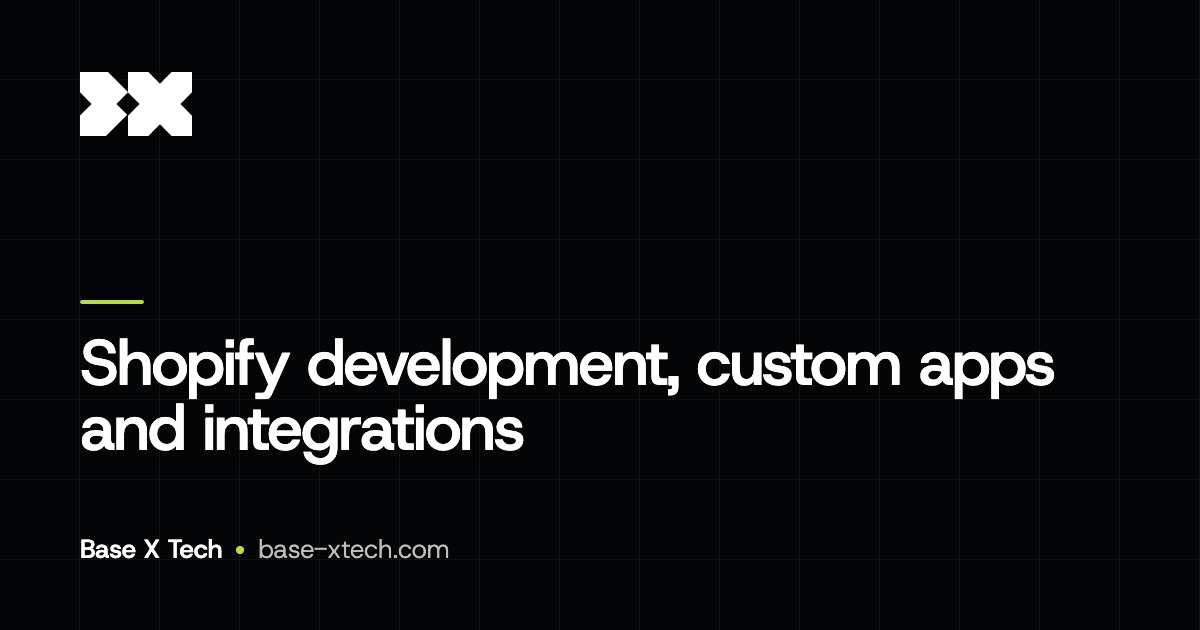
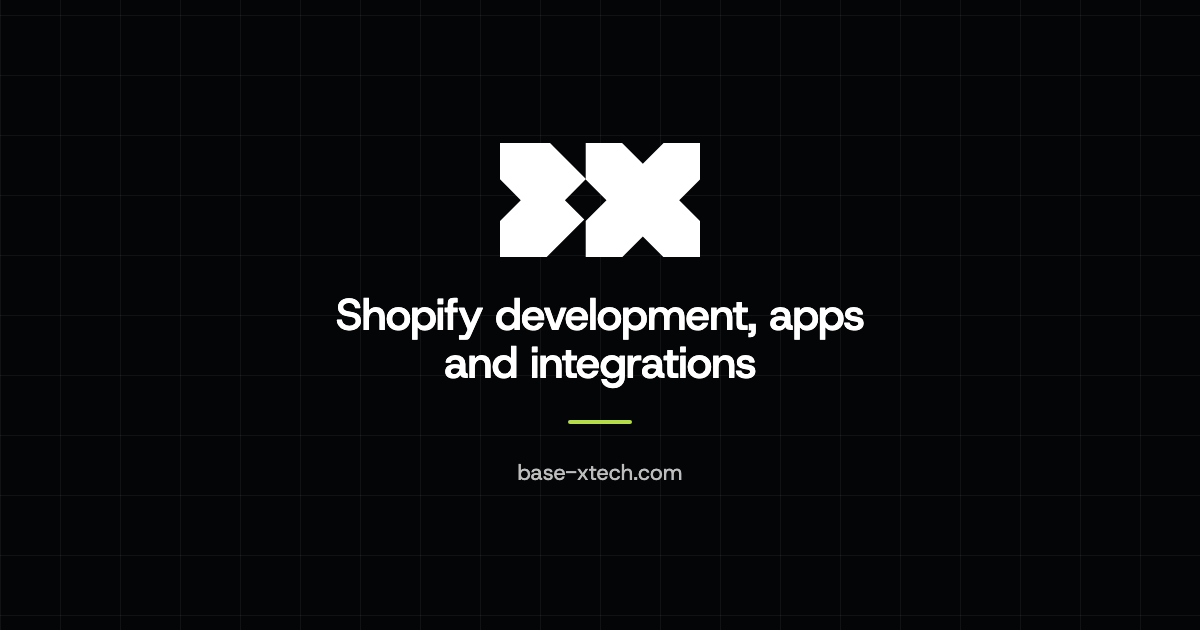
og: square-safe share card (Slack crops to the centre), cache-busted ?v=2; tests host-aware

diff --git a/qa/tests/review-v2.spec.js b/qa/tests/review-v2.spec.js
@@ -75,12 +75,12 @@ for (const path of ['/', '/pages/service/custom-shopify-integrations/', '/de/pag
     expect(og('description')).toBeTruthy();
     expect(og('type')).toBe('website');
     expect(og('url')).toBe(canonical);
-    expect(og('image')).toBe('https://base-xtech.com/images/og/base-x-tech-og.png'); // 1200×630 share card (2026-09-25)
+    expect(og('image')).toBe(`${isDevTarget ? 'https://dev.base-xtech.com' : 'https://base-xtech.com'}/images/og/base-x-tech-og.png?v=2`); // 1200×630 share card (2026-09-25)
     expect(og('image:width')).toBe('1200');
     expect(og('image:height')).toBe('630');
     expect(og('locale')).toBe({ en: 'en_US', de: 'de_DE', uk: 'uk_UA' }[langOf(path)]);
     expect(html).toContain('<meta name="twitter:card" content="summary_large_image">');
-    expect(html).toContain('<meta name="twitter:image" content="https://base-xtech.com/images/og/base-x-tech-og.png">');
+    expect(html).toContain(`<meta name="twitter:image" content="${isDevTarget ? 'https://dev.base-xtech.com' : 'https://base-xtech.com'}/images/og/base-x-tech-og.png?v=2">`);
   });
 }
 

diff --git a/qa/tests/owner-decisions.spec.js b/qa/tests/owner-decisions.spec.js
@@ -158,7 +158,7 @@ test('Complex buttons use the service-page system (white label + accent arrow sq
 
 test('OG image: absolute URL on every indexable page, served as a 1200×630 PNG under 300 KB', async ({ request }) => {
   // Dev builds point previews at the dev host (the file is not on prod before release).
-  const url = `${isDevTarget ? 'https://dev.base-xtech.com' : 'https://base-xtech.com'}/images/og/base-x-tech-og.png`;
+  const url = `${isDevTarget ? 'https://dev.base-xtech.com' : 'https://base-xtech.com'}/images/og/base-x-tech-og.png?v=2`;
   for (const p of [...indexPages, ...dePages]) {
     const { html } = await rawHtml(request, p.path);
     expect(html, p.path).toContain(`<meta property="og:image" content="${url}">`);

diff --git a/scripts/seo-plugin.js b/scripts/seo-plugin.js
@@ -90,7 +90,7 @@ function socialTags({ html, lang, canonical, cluster }) {
   const description = attr(metaDescription(html));
   // 1200×630 share card (public/images/og/). Dev builds point at the dev host so link previews work before the file is on prod.
   const imageHost = process.env.DEPLOY_ENV === 'dev' ? (process.env.OG_HOST || 'https://dev.base-xtech.com') : host;
-  const image = `${imageHost}/images/og/base-x-tech-og.png`;
+  const image = `${imageHost}/images/og/base-x-tech-og.png?v=2`; // bump v when the card changes (Slack/LinkedIn cache by URL)
   const tags = [
     '<meta property="og:type" content="website">',
     '<meta property="og:site_name" content="Base X Tech">',
